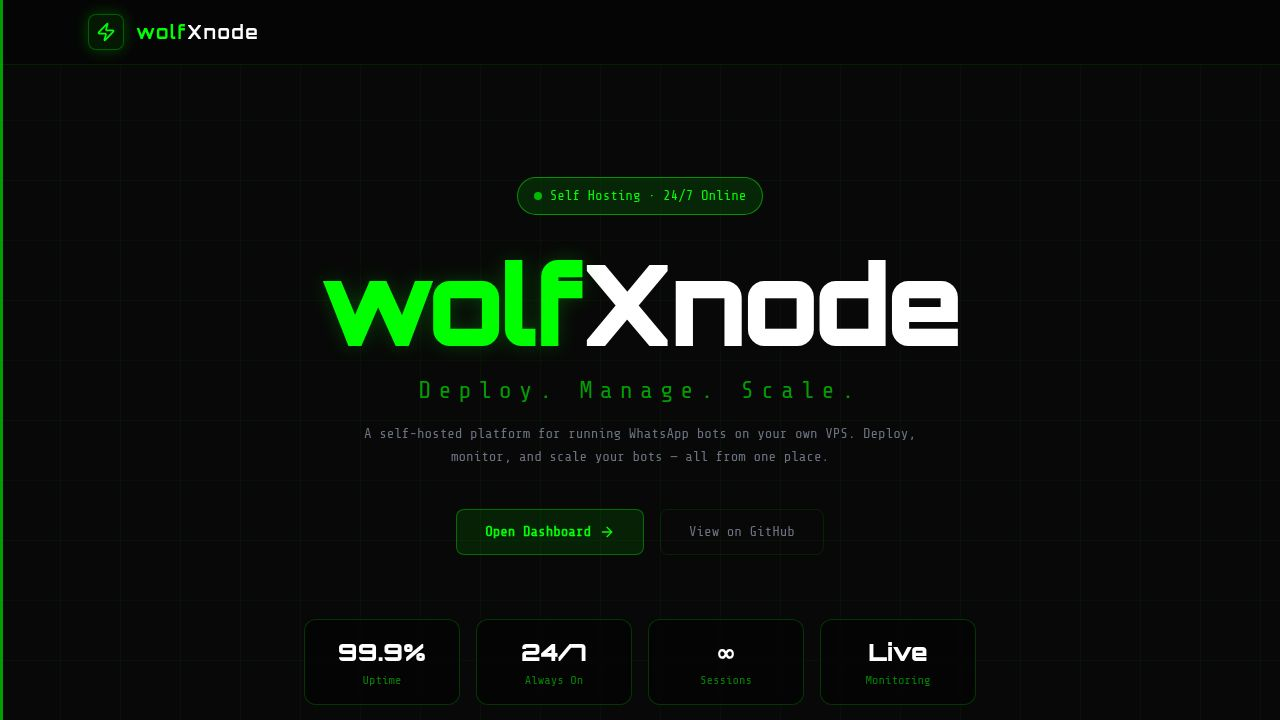
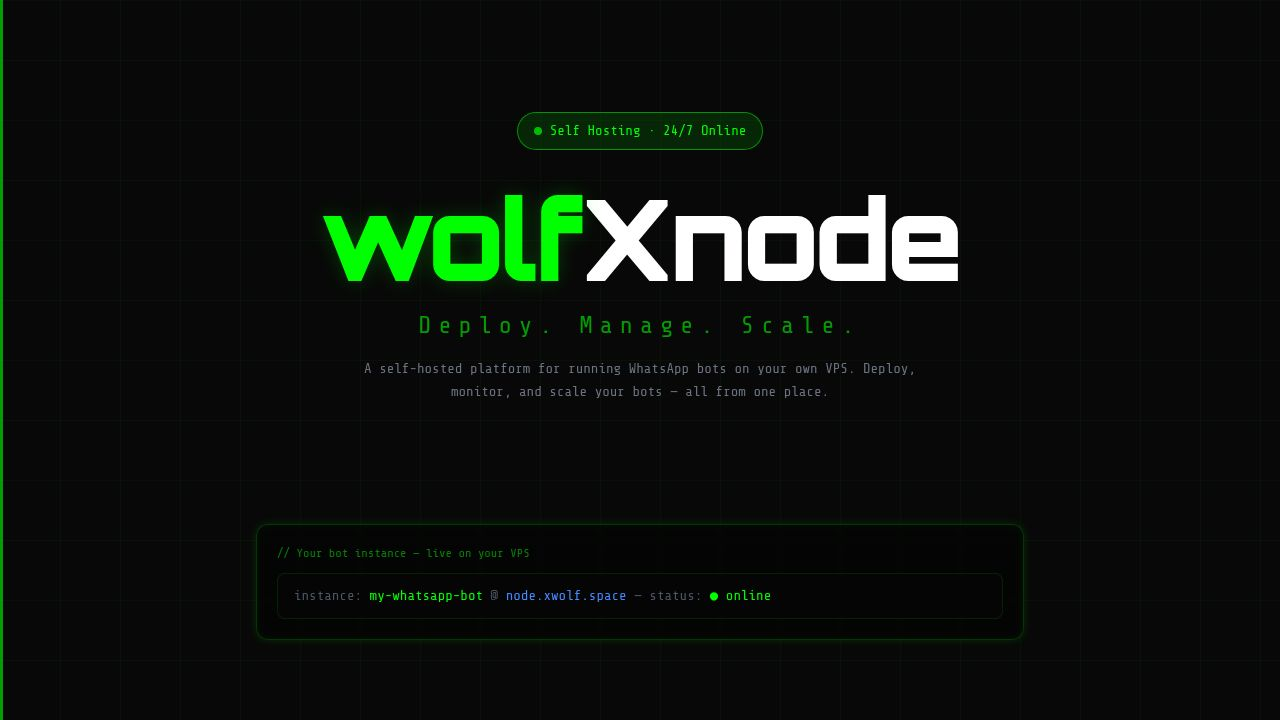
Remove website navigation and performance statistics
Remove the top navigation bar, dashboard and GitHub buttons, and performance statistics from the landing page.

Replit-Commit-Author: Agent
Replit-Commit-Session-Id: a8a65407-099b-4633-b1b8-a2b3e33364f0
Replit-Commit-Checkpoint-Type: full_checkpoint
Replit-Commit-Event-Id: 7399bc05-59e6-4456-b0b5-f66d1767a8cf
Replit-Commit-Screenshot-Url: https://storage.googleapis.com/screenshot-production-us-central1/e9a2ee88-d6b4-4faf-adf1-8de49c6dc59b/a8a65407-099b-4633-b1b8-a2b3e33364f0/Fm54R02
Replit-Helium-Checkpoint-Created: true

diff --git a/client/src/pages/Landing.tsx b/client/src/pages/Landing.tsx
@@ -49,23 +49,6 @@ export default function Landing() {
       {/* Left neon bar */}
       <div className="fixed left-0 top-0 bottom-0 w-[3px] z-50" style={{ background: 'hsl(120 100% 50% / 0.6)' }} />
 
-      {/* ── Navbar ── */}
-      <nav className="relative z-40 border-b" style={{ borderColor: 'hsl(120 100% 50% / 0.1)', background: 'rgba(5,5,5,0.9)', backdropFilter: 'blur(12px)' }}>
-        <div className="max-w-6xl mx-auto px-6 h-16 flex items-center justify-between">
-          <div className="flex items-center gap-3">
-            <div
-              className="w-9 h-9 rounded-lg flex items-center justify-center animate-pulse-glow"
-              style={{ background: 'hsl(120 100% 50% / 0.08)', border: '1px solid hsl(120 100% 50% / 0.3)' }}
-            >
-              <Zap className="w-5 h-5 text-primary" />
-            </div>
-            <span className="font-display font-bold text-lg tracking-widest">
-              <span className="text-primary">wolf</span><span className="text-white">Xnode</span>
-            </span>
-          </div>
-          <div />
-        </div>
-      </nav>
 
       {/* ── Hero ── */}
       <section className="relative z-10 pt-28 pb-20 px-6 text-center">
@@ -90,36 +73,6 @@ export default function Landing() {
             Deploy, monitor, and scale your bots — all from one place.
           </p>
 
-          <div className="flex flex-col sm:flex-row items-center justify-center gap-4">
-            <Link
-              to="/login"
-              className="flex items-center gap-2 px-7 py-3 font-mono font-semibold text-sm rounded-lg transition-all"
-              style={{ background: 'hsl(120 100% 50% / 0.1)', border: '1px solid hsl(120 100% 50% / 0.35)', color: 'hsl(120 100% 50%)' }}
-              onMouseEnter={e => (e.currentTarget.style.background = 'hsl(120 100% 50% / 0.18)')}
-              onMouseLeave={e => (e.currentTarget.style.background = 'hsl(120 100% 50% / 0.1)')}
-            >
-              Open Dashboard <ArrowRight className="w-4 h-4" />
-            </Link>
-            <a
-              href="https://github.com/sil3nt-wolf/wolf-mongoDB"
-              target="_blank"
-              rel="noopener noreferrer"
-              className="px-7 py-3 font-mono text-sm text-gray-500 hover:text-gray-300 border rounded-lg transition-all"
-              style={{ borderColor: 'hsl(120 100% 50% / 0.1)' }}
-            >
-              View on GitHub
-            </a>
-          </div>
-        </div>
-
-        {/* Stats */}
-        <div className="mt-16 max-w-2xl mx-auto grid grid-cols-2 sm:grid-cols-4 gap-4">
-          {stats.map(s => (
-            <div key={s.label} className="card p-4 text-center">
-              <div className="text-2xl font-display font-black text-white">{s.value}</div>
-              <div className="text-xs font-mono mt-1" style={{ color: 'hsl(120 100% 50% / 0.5)' }}>{s.label}</div>
-            </div>
-          ))}
         </div>
       </section>
 
